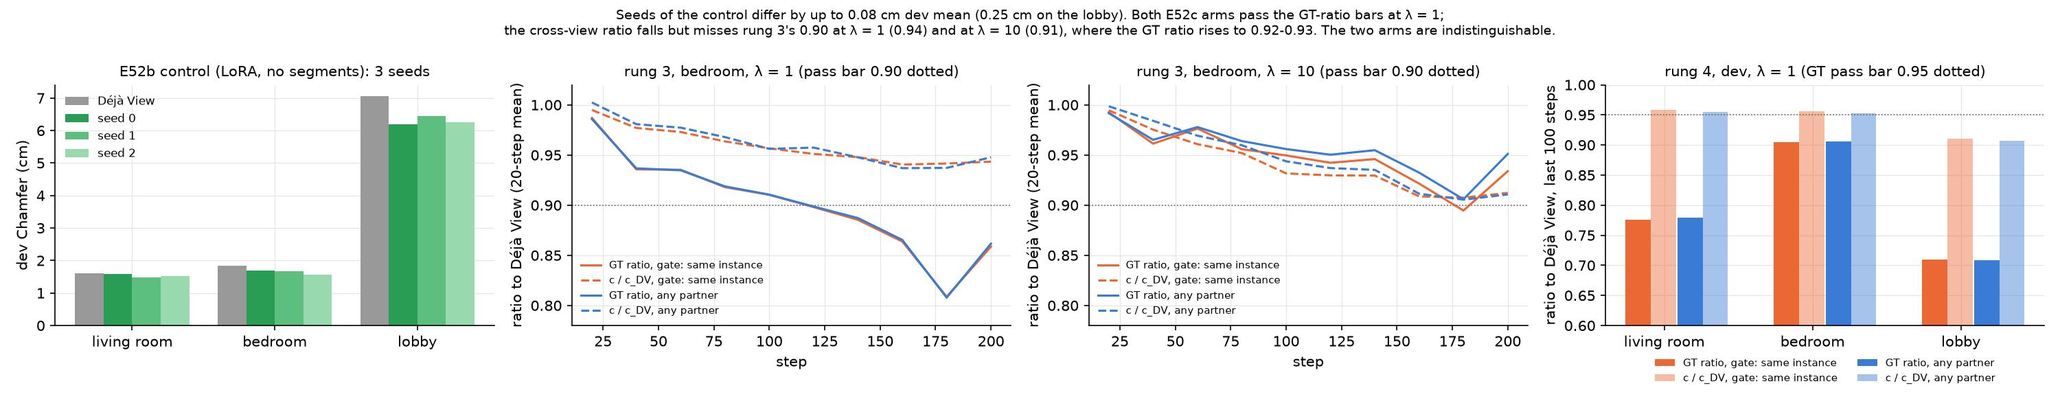
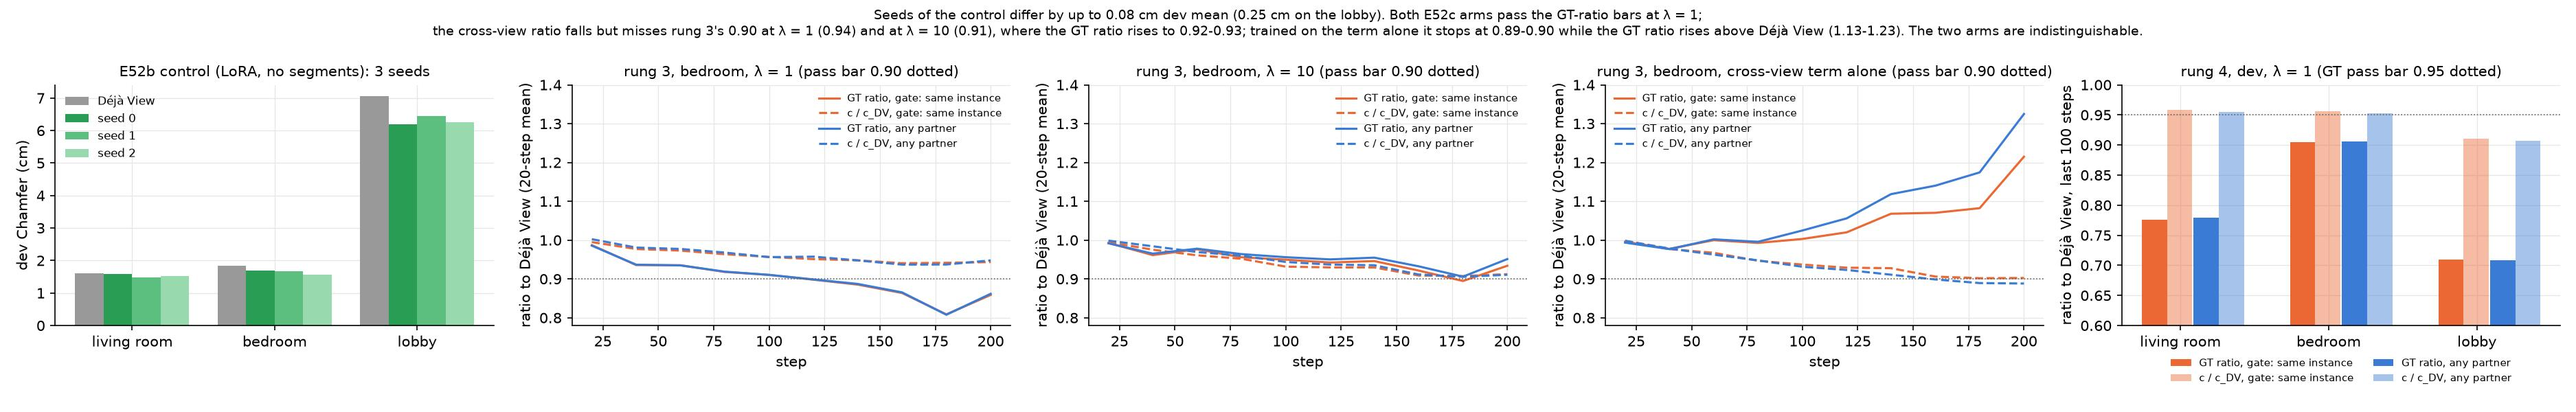
Report E52c rung 3 with the cross-view term alone
Trained on the cross-view ratio alone (gt_weight=0, 34f1183, 3080,
bedroom, 200 steps), c / c_DV stops at 0.902 / 0.890 (same instance /
any partner), short of the plan's 0.80, while the GT ratio climbs to
1.13 / 1.23 and val worsens 9-13%. The GT ratio was therefore not what
held c at 0.91 at λ = 10; the term itself cannot be driven down by the
LoRA towards the GT, so the λ sweep is dropped until a solver-level
check on cached Déjà View output explains why. The rungs figure gains
a panel for the term alone.

diff --git a/experiments/scripts/e52c_rungs_figures.py b/experiments/scripts/e52c_rungs_figures.py
@@ -2,13 +2,14 @@
 
 Reads the E52b control at seeds 0, 1, 2 (`runs/e52b_control`, `runs/e52b_control_s1`,
 `runs/e52b_control_s2`) and E52c's rungs 3 and 4 for both arms
-(`runs/e52c_rung{3,4}_{instance,none}`, λ = 1) and rung 3 at λ = 10
-(`runs/e52c_rung3_{instance,none}_l10`), all `e52a.yaml` of `e52a_segment_adapters.py`
+(`runs/e52c_rung{3,4}_{instance,none}`, λ = 1), rung 3 at λ = 10
+(`runs/e52c_rung3_{instance,none}_l10`) and with the cross-view term alone
+(`runs/e52c_rung3_{instance,none}_conly`, `gt_weight=0`), all `e52a.yaml` of `e52a_segment_adapters.py`
 on the 3080.
 
 1. `e52c_rungs.jpg`: dev Chamfer per scene of each control seed against Déjà View; rung 3
    (bedroom) GT ratio and cross-view ratio c / c_DV per step, 20-step means, both arms,
-   at λ = 1 and λ = 10 on one scale; rung 4 (dev) last-100-step GT and cross-view ratios per scene, both arms.
+   at λ = 1, λ = 10 and with the term alone, on one scale; rung 4 (dev) last-100-step GT and cross-view ratios per scene, both arms.
 2. `results/e52c_rungs.yaml`: the numbers above and the rungs' pass values.
 
 uv run python experiments/scripts/e52c_rungs_figures.py
@@ -33,6 +34,7 @@ SEEDS = {0: "e52b_control", 1: "e52b_control_s1", 2: "e52b_control_s2"}
 ARMS = {"instance": ("gate: same instance", "#eb6834"),
         "none": ("any partner", "#3a7bd5")}  # fmt: skip
 SMOOTH = 20
+RUNG3 = {"": "λ = 1", "_l10": "λ = 10", "_conly": "cross-view term alone"}
 
 
 def record(run: str) -> dict:
@@ -63,7 +65,7 @@ def rungs() -> dict:
     """Rung 3 last-50 and rung 4 last-100 per-scene ratios of both arms."""
     out: dict = {}
     for arm in ARMS:
-        for suffix in ("", "_l10"):
+        for suffix in RUNG3:
             m3 = model(f"e52c_rung3_{arm}{suffix}")
             t, c = np.array(m3["train_loss"]), np.array(m3["train_cons_ratio"])
             out[f"rung3_{arm}{suffix}"] = {"gt_last50": float(t[-50:].mean()),
@@ -91,7 +93,7 @@ def smooth(values: list[float]) -> np.ndarray:
 
 def figure(dev: dict, rung: dict) -> None:
     """Seed spread, rung 3 curves, rung 4 per-scene ratios."""
-    fig, axes = plt.subplots(1, 4, figsize=(20, 4))
+    fig, axes = plt.subplots(1, 5, figsize=(25, 4))
     ax = axes[0]
     labels = [BASE, "seed 0", "seed 1", "seed 2"]
     colours = ["0.6", "#2a9d55", "#5cbf80", "#98d9ae"]
@@ -103,7 +105,7 @@ def figure(dev: dict, rung: dict) -> None:
     ax.set_ylabel("dev Chamfer (cm)")
     ax.set_title("E52b control (LoRA, no segments): 3 seeds", fontsize=10)
     ax.legend(fontsize=8, frameon=False)
-    for ax, (suffix, lam) in zip(axes[1:3], (("", 1), ("_l10", 10)), strict=True):
+    for ax, (suffix, name) in zip(axes[1:4], RUNG3.items(), strict=True):
         for arm, (label, colour) in ARMS.items():
             m = model(f"e52c_rung3_{arm}{suffix}")
             steps = (np.arange(len(smooth(m["train_loss"]))) + 1) * SMOOTH
@@ -112,12 +114,12 @@ def figure(dev: dict, rung: dict) -> None:
             ax.plot(steps, smooth(m["train_cons_ratio"]), color=colour, ls="--",
                     label=f"c / c_DV, {label}")  # fmt: skip
         ax.axhline(0.9, color="0.4", lw=0.8, ls=":")
-        ax.set_ylim(0.78, 1.02)
+        ax.set_ylim(0.78, 1.4)
         ax.set_xlabel("step")
         ax.set_ylabel(f"ratio to Déjà View ({SMOOTH}-step mean)")
-        ax.set_title(f"rung 3, bedroom, λ = {lam} (pass bar 0.90 dotted)", fontsize=10)
+        ax.set_title(f"rung 3, bedroom, {name} (pass bar 0.90 dotted)", fontsize=10)
         ax.legend(fontsize=7, frameon=False)
-    ax = axes[3]
+    ax = axes[4]
     for a, (arm, (label, colour)) in enumerate(ARMS.items()):
         r = rung[f"rung4_{arm}"]
         x = np.arange(3) + (a - 0.5) * 0.35
@@ -138,7 +140,8 @@ def figure(dev: dict, rung: dict) -> None:
         "Seeds of the control differ by up to 0.08 cm dev mean (0.25 cm on the lobby). "
         "Both E52c arms pass the GT-ratio bars at λ = 1;\nthe cross-view ratio falls "
         "but misses rung 3's 0.90 at λ = 1 (0.94) and at λ = 10 (0.91), where the GT "
-        "ratio rises to 0.92-0.93. The two arms are indistinguishable.",
+        "ratio rises to 0.92-0.93; trained on the term alone it stops at 0.89-0.90 while "
+        "the GT ratio rises above Déjà View (1.13-1.23). The two arms are indistinguishable.",
         fontsize=9,
     )
     fig.tight_layout()

diff --git a/experiments/LOG.md b/experiments/LOG.md
@@ -6105,3 +6105,35 @@ Interim entry: the check that the plan puts before any table.
   ratio is expected to rise; how far shows how much c alone conflicts with the GT.
 - **Command** (3080, both gates, ~6 min each): the plan's rung-3 command with
   `cons_weight=1.0 gt_weight=0.0`, `--out runs/e52c_rung3_<gate>_conly`.
+
+## E52c, rung 3 with the cross-view term alone: c / c_DV stops at 0.89-0.90 while the GT ratio climbs to 1.13-1.23, so the term itself cannot be driven down by the LoRA; the λ sweep is dropped until its gradient path is understood (issue #52, 18.11.2026)
+- **Setting:** the plan entry above, at 34f1183 (clean), 3080, 18.11 22:43-22:56 (~347 s per arm),
+  `runs/e52c_rung3_{instance,none}_conly`.
+- **Result (bedroom, 200 steps, ratios to Déjà View on the same draw; λ = 1 and λ = 10 from the
+  entries above):**
+
+  | | λ = 1 | λ = 10 | term alone | bar |
+  |---|---|---|---|---|
+  | c / c_DV, last 50, same instance | 0.943 | 0.909 | 0.902 | < 0.80 (term alone) |
+  | c / c_DV, last 50, any partner | 0.940 | 0.907 | 0.890 | |
+  | GT ratio, last 50, same instance | 0.842 | 0.918 | 1.133 | |
+  | GT ratio, last 50, any partner | 0.843 | 0.931 | 1.228 | |
+  | median LoRA-up gradient norm, same instance | 2.32 | 8.19 | 0.80 | |
+  | val ratio at step 200, same instance / any partner | 1.002 / 0.999 | 1.002 / 1.001 | 1.086 / 1.134 | |
+
+  Without the GT ratio, c / c_DV ends where it ended at λ = 10 (0.89-0.90; the 20-step means
+  flatten from step 160), so the GT ratio was not what held it at 0.91. Meanwhile the geometry
+  moves away from the GT: the GT ratio passes 1.0 at step ~90 and keeps rising (20-step peak
+  1.22 / 1.33), and val worsens by 9-13%. The term's own gradient is small: its median norm
+  alone is 0.80, about a third of the GT ratio's (2.3 at λ = 1), and 10 x 0.80 matches the 8.2
+  of λ = 10. The probe's floor (GT scores 0.46 of Déjà View's c) is far away, so the LoRA lowers
+  c by distorting the scene, not by moving it towards the GT. The gate changes c by 0.012.
+- **Reading:** refuted: the term alone does not reach a known answer (rung 3), so a λ sweep or
+  seeds would only measure a term that does not work as intended. The term is "not yet
+  working": what is missing is a solver-level check that removes the network. Next, on cached
+  Déjà View output: minimise c directly over per-pixel depth (or a per-view affine) of the
+  bedroom's 20 views and see whether it reaches the GT's c (0.46) and moves the points towards
+  the GT. If it does, the LoRA's parameterisation limits the term; if not, the term (detached
+  prediction normals, partners re-chosen every step, the 0.05 cap) has minima away from the GT.
+- **Commands:** the plan's command; figure (rung-3 panel for the term alone added) and raw:
+  `uv run python experiments/scripts/e52c_rungs_figures.py`.
